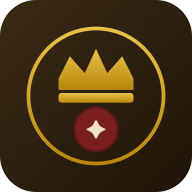
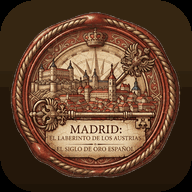
Nuevo icono y marca de la app: sello de lacre "Madrid: el laberinto de los Austrias"
Se sustituye el emblema de corona (👑, provisional) por el sello de
lacre que aportó el usuario, recortado a un PNG transparente y
compuesto sobre el mismo fondo marrón/dorado del icono anterior para
mantener la identidad visual ya establecida.

- img/emblem.png: sello recortado (fondo transparente, componente
  conexo mayor aislado del lienzo original, que traía checkerboard de
  IA "horneado" en los píxeles en vez de alfa real) — usado como marca
  dentro de la propia app (pantallas de inicio y título).
- icons/icon-192.png, icons/icon-512.png: regenerados con el sello
  sobre el mismo degradado marrón (#3a2a15→#1f1408) y esquinas
  redondeadas que ya tenía el icono anterior.
- icons/icon.svg: eliminado (sustituido por los PNG); favicon de
  index.html y gracias.html apuntan ahora a icon-192.png.
- manifest.webmanifest: quitada la entrada SVG del array de iconos;
  de paso, corregida la descripción, que aún decía "del Palacio Real
  a la Plaza Mayor" (desfasada desde el reordenamiento de la ruta).
- sw.js: precache de img/emblem.png en vez de icon.svg; bump a v17.
- css/styles.css: .home-emblem/.title-emblem pasan de emoji con
  font-size a <img> con ancho fijo + drop-shadow.

diff --git a/index.html b/index.html
@@ -7,9 +7,9 @@
   <meta name="description" content="El Testamento del Siglo de Oro — Escape room urbano por el Madrid de los Austrias" />
   <title>El Testamento del Siglo de Oro</title>
   <link rel="manifest" href="manifest.webmanifest" />
-  <link rel="icon" href="icons/icon.svg" type="image/svg+xml" />
+  <link rel="icon" href="icons/icon-192.png" type="image/png" />
   <link rel="apple-touch-icon" href="icons/icon-192.png" />
-  <link rel="stylesheet" href="css/styles.css?v=16" />
+  <link rel="stylesheet" href="css/styles.css?v=17" />
 </head>
 <body>
   <div id="app">
@@ -29,12 +29,12 @@
   <!-- Plantilla de aviso (toast) -->
   <div id="toast" class="toast hidden" role="status"></div>
 
-  <script src="js/i18n.js?v=16"></script>
-  <script src="js/data.js?v=16"></script>
-  <script src="js/art.js?v=16"></script>
-  <script src="js/license.js?v=16"></script>
-  <script src="js/engine.js?v=16"></script>
-  <script src="js/app.js?v=16"></script>
+  <script src="js/i18n.js?v=17"></script>
+  <script src="js/data.js?v=17"></script>
+  <script src="js/art.js?v=17"></script>
+  <script src="js/license.js?v=17"></script>
+  <script src="js/engine.js?v=17"></script>
+  <script src="js/app.js?v=17"></script>
   <script>
     if ("serviceWorker" in navigator && location.protocol === "https:") {
       navigator.serviceWorker.register("sw.js").catch(() => {});

diff --git a/js/app.js b/js/app.js
@@ -481,7 +481,7 @@
           <img src="img/home_madrid.jpg" alt="Madrid" />
           <div class="home-scrim"></div>
           <div class="home-content">
-            <div class="home-emblem">👑</div>
+            <img class="home-emblem" src="img/emblem.png" alt="El Testamento del Siglo de Oro" />
             <h1 class="home-title">Madrid Aventure</h1>
             <p class="home-tagline" id="homeTagline"></p>
             <div class="home-langs">
@@ -542,7 +542,7 @@
     const v = el(`
       <div class="title-screen">
         ${langSwitcher()}
-        <div class="title-emblem">👑</div>
+        <img class="title-emblem" src="img/emblem.png" alt="${GAME_DATA.title}" />
         <h1>${GAME_DATA.title}</h1>
         <p class="title-sub">${GAME_DATA.subtitle}</p>
         <div class="ornament">❦ ❦ ❦</div>

diff --git a/css/styles.css b/css/styles.css
@@ -639,7 +639,8 @@ input.shake {
 }
 
 .home-emblem {
-  font-size: 46px;
+  width: 84px;
+  height: auto;
   margin-bottom: 6px;
   filter: drop-shadow(0 2px 10px rgba(0, 0, 0, 0.6));
 }
@@ -741,7 +742,12 @@ input.shake {
   padding: 24px 8px;
 }
 
-.title-emblem { font-size: 74px; margin-bottom: 6px; }
+.title-emblem {
+  width: 130px;
+  height: auto;
+  margin-bottom: 6px;
+  filter: drop-shadow(0 2px 12px rgba(0, 0, 0, 0.45));
+}
 
 .title-screen h1 {
   font-size: 36px;

diff --git a/sw.js b/sw.js
@@ -1,6 +1,6 @@
 /* Service worker: juego 100% offline una vez cargado.
    Importante en la calle, donde la cobertura falla. */
-const CACHE = "testamento-v16";
+const CACHE = "testamento-v17";
 const ASSETS = [
   "./img/app_bg.jpg",
   "./img/home_madrid.jpg",
@@ -35,7 +35,7 @@ const ASSETS = [
   "./js/engine.js",
   "./js/app.js",
   "./manifest.webmanifest",
-  "./icons/icon.svg",
+  "./img/emblem.png",
 ];
 
 self.addEventListener("install", (e) => {

diff --git a/gracias.html b/gracias.html
@@ -5,7 +5,7 @@
   <meta name="viewport" content="width=device-width, initial-scale=1" />
   <meta name="robots" content="noindex" />
   <title>Gracias · El Testamento del Siglo de Oro</title>
-  <link rel="icon" href="icons/icon.svg" type="image/svg+xml" />
+  <link rel="icon" href="icons/icon-192.png" type="image/png" />
   <link rel="stylesheet" href="css/styles.css?v=7" />
 </head>
 <body>
